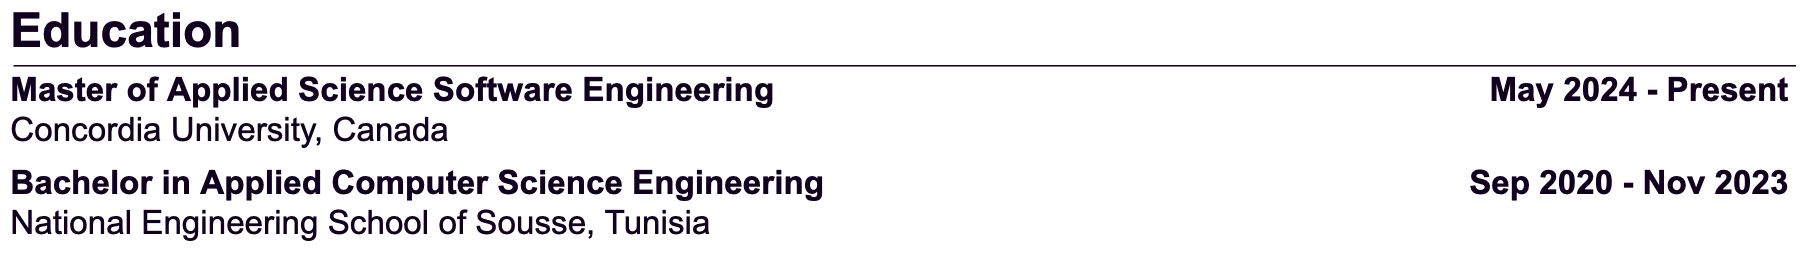
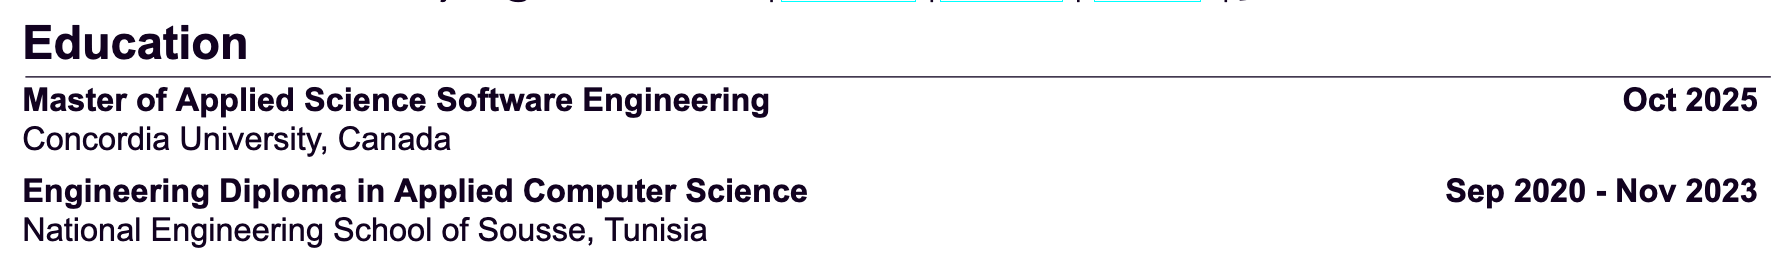
Reinitializing repository

diff --git a/achievements.html b/achievements.html
@@ -1,0 +1,116 @@
+<!DOCTYPE HTML>
+<html>
+	<head>
+		<title>Projects and Certificates</title>
+		<meta charset="utf-8" />
+		<meta name="viewport" content="width=device-width, initial-scale=1, user-scalable=no" />
+		<link rel="stylesheet" href="assets/css/main.css" />
+	</head>
+
+
+	<body class="is-preload">
+		<!-- Wrapper -->
+			<div id="wrapper">
+
+				<!-- Main -->
+					<div id="main">
+						<div class="inner">
+
+							<!-- Header -->
+								<header id="header">
+									<ul class="icons">
+										<li><a href="https://www.linkedin.com/in/chaima-jaziri/" class="icon brands fab fa-linkedin" ><span class="label">linkedIn</span></a></li>
+										<li><a href="https://github.com/Chaima-Ja" class="icon brands fab fa-github" target="_blank" rel="noopener noreferrer"><span class="label">Github</span></a></li>
+										<li><a href="mailto:chaimajaziri18@email.com" class="icon regular far fa-envelope" target="_blank" rel="noopener noreferrer"><span class="label">Email</span></a></li>
+										<li><a href="https://leetcode.com/chaima_jaziri/" class="icon solid fas fa-puzzle-piece" target="_blank" rel="noopener noreferrer"><span class="label">leetcode</span></a></li>
+									</ul>
+								</header>
+
+
+
+							<!-- Section -->
+								<!-- Section -->
+								<section>
+									<header class="major">
+										<h2>Achievements</h2>
+									</header>
+									<div class="posts">
+										<article>
+											<a href="#" class="image"><img src="images/pic01.jpg" alt="" /></a>
+											<h3>Deep Learning Indaba 2022</h3>
+											<p> I was selected to participate in the Deep Learning Indaba 2022 event awarded an accommodation grant. It is the annual meeting of the African ML community  where I immersed myself in workshops, conferences, and talks by industry giants like Apple, and Google DeepMind.. </p>
+											<p>This experience not only enhanced my skills but also broadened my perspective, fueling my desire to delve deeper into the fascinating world of artificial intelligence.</p>
+										</article>
+										<article>
+											<a href="#" class="image"><img src="images/pic02.jpg" alt="" /></a>
+											<h3>Mitacs Globalink Research Award 2023</h3>
+											<p>I recently secured a full founded scholarship from the MITACS Globalink program, paving the way for a research internship at the University of Sherbrooke in 2023.</p>
+											<p>It's a competitive initiative for international top-ranked applicants participate in a 12-week research internship in a variety of academic disciplines, from science, engineering, and mathematics.</p>
+										</article>
+								
+									</div>
+								</section>
+
+
+                            
+							
+
+
+
+						</div>
+					</div>
+
+
+				<!-- Sidebar -->
+                <div id="sidebar">
+                    <div class="inner">
+
+                        <!-- Menu -->
+                            <nav id="menu">
+                                <header class="major">
+                                    <h2>Menu</h2>
+                                </header>
+                                <ul>
+                                    <li><a href="index.html">Homepage</a></li>
+                                    <li><a href="About.html">About</a></li>
+                                    <li><a href="services.html">Services</a></li>
+                                    <li><a href="achievements.html">Achievements</a></li>
+
+                                    <li><a href="projects.html">Projects</a></li>
+                                    <li><a href="contact.html">Contact</a></li>
+                                </ul>
+                            </nav>
+
+                    
+					<!-- Section -->
+					<section>
+						<header class="major">
+							<h2>Get in touch</h2>
+						</header>
+						<p>Thank you for exploring my portfolio! I'm passionate about creating meaningful and impactful work, and I would love to collaborate with you on your next project.</p>  
+						<p>Whether you're looking for creative solutions, or just want to connect and chat about the exciting possibilities ahead, I invite you to get in touch.</p> 
+						<p>Feel free to reach out via the contact form below, and let's start a conversation that leads to something amazing. I look forward to hearing from you!</p>
+						
+						<ul class="contact">
+							<li class="icon solid fa-envelope"><a href="#">Chaima.Jaziri@mail.concordia.ca</a></li>
+							<li class="icon solid fa-home">Montreal, Canada</li>
+						</ul>
+					</section>
+                            
+
+                      
+
+                    </div>
+                </div>
+
+        </div>
+
+		<!-- Scripts -->
+			<script src="assets/js/jquery.min.js"></script>
+			<script src="assets/js/browser.min.js"></script>
+			<script src="assets/js/breakpoints.min.js"></script>
+			<script src="assets/js/util.js"></script>
+			<script src="assets/js/main.js"></script>
+
+	</body>
+</html>

diff --git a/index.html b/index.html
@@ -30,11 +30,19 @@
 										<header>
 											<h1>Hi, My name is Chaima Jaziri<br />
 											</h1>
-											<p><b>A Software Engineer & Machine Learning practitioner </b> </p>
+											<p><b>A Machine Learning Engineer </b> </p>
 										</header>
-										<p>I'm a dynamic junior computer science engineer graduated from the National School of Engineers of Sousse in Tunisia and Curently a first-year M.Sc at Concordia University. </p>
-										<p>My journey has been marked by hands-on diverse Machine Learning algorithms, resulting in valuable contributions to a range of projects. I've been expanding my knowledge through self-directed learning, and undertaking both academic and personal projects.</p>
-										<p>I'm skilled in AI, Machine learning, NLP, problem-solving, and programming and I am currently on the lookout for opportunities to apply and further refine my skills</p>
+										<p>I am a forward-thinking AI engineer with a solid academic foundation from the National School of Engineers of Sousse in Tunisia and currently pursuing an M.Sc. in Software Engineering at Concordia University</p> 
+										<p>
+
+											My expertise lies in artificial intelligence, Large language Models (LLMs) and Software Engineering. I’ve honed my skills through hands-on experience in diverse machine learning projects, tackling complex challenges and delivering impactful solutions.
+										</p>
+										<p> A lifelong learner, I am constantly working on agentic solutions and LLMs technologies and advancing my knowledge through academic research, personal initiatives, and collaborative projects.
+											
+											I am driven by a passion for creating intelligent systems that solve real-world problems and transform industries. 
+											
+										</p>
+										I am always seeking opportunities to channel my technical expertise and innovative mindset into meaningful projects that push the boundaries of AI and software engineering.</p>
 										<ul class="actions">
 											<li><a href="contact.html" class="button big">Contact Me</a></li>
 										</ul>
@@ -45,27 +53,7 @@
 								</section>
 
 
-							<!-- Section -->
-								<section>
-									<header class="major">
-										<h2>Achievements</h2>
-									</header>
-									<div class="posts">
-										<article>
-											<a href="#" class="image"><img src="images/pic01.jpg" alt="" /></a>
-											<h3>Deep Learning Indaba 2022</h3>
-											<p> I was selected to participate in the Deep Learning Indaba 2022 event awarded an accommodation grant. It is the annual meeting of the African ML community  where I immersed myself in workshops, conferences, and talks by industry giants like Apple, and Google DeepMind.. </p>
-											<p>This experience not only enhanced my skills but also broadened my perspective, fueling my desire to delve deeper into the fascinating world of artificial intelligence.</p>
-										</article>
-										<article>
-											<a href="#" class="image"><img src="images/pic02.jpg" alt="" /></a>
-											<h3>Mitacs Globalink Research Award 2023</h3>
-											<p>I recently secured a full founded scholarship from the MITACS Globalink program, paving the way for a research internship at the University of Sherbrooke in 2023.</p>
-											<p>It's a competitive initiative for international top-ranked applicants participate in a 12-week research internship in a variety of academic disciplines, from science, engineering, and mathematics.</p>
-										</article>
-								
-									</div>
-								</section>
+							
 
 						</div>
 					</div>
@@ -83,6 +71,7 @@
 										<li><a href="index.html">Homepage</a></li>
 										<li><a href="About.html">About</a></li>
 										<li><a href="services.html">Services</a></li>
+										<li><a href="Achievements.html">Achievements</a></li>
 										<li><a href="projects.html">Projects</a></li>
 										<li><a href="contact.html">Contact</a></li>
 									</ul>
@@ -101,8 +90,8 @@
 									<p>Feel free to reach out via the contact form below, and let's start a conversation that leads to something amazing. I look forward to hearing from you!</p>
 								
 									<ul class="contact">
-										<li class="icon solid fa-envelope"><a href="#">Chaima.Jaziri@USherbrooke.ca</a></li>
-										<li class="icon solid fa-home">Tunisia</li>
+										<li class="icon solid fa-envelope"><a href="#">Chaima.Jaziri@mail.concordia.ca</a></li>
+							<li class="icon solid fa-home">Montreal, Canada</li>
 									</ul>
 								</section>
 

diff --git a/About.html b/About.html
@@ -30,13 +30,23 @@
 										<h1>About Me</h1>
 									</header>
 									
-									<p><b>With three years of hands-on experience, I bring a wealth of expertise in machine learning, data extraction, data visualization, and Natural Language Processing. My journey in these fields has equipped me with a deep understanding and proficiency that extends beyond the basics. What sets me apart is not only my technical prowess but also my unwavering passion for sharing knowledge. I am committed to fostering a collaborative learning environment, where insights and ideas flow freely.</b></p>
-									<hr class="major" />
+									<p><b>I am Chaima Jaziri, an MLOps Engineer with a strong foundation in machine learning, natural language processing, and scalable software engineering. With over three years of experience, I specialize in designing robust AI solutions, building efficient pipelines, and deploying scalable models on cloud platforms.
+										
+										I am passionate about leveraging AI to drive innovation, improve processes, and solve real-world problems. Currently, I am pursuing a Thesis master of Applied Science in Software Engineering at Concordia University, focusing on agentic solutions for Software engineering problems and challenges.
+
+										<hr class="major" />
 
 									<h2>My education</h2>
-								<span class="image main"><img src="images/Education.png" alt="" /></span>
+								<span class="image main"><img src="images/education.png" alt="" /></span>
 								<h2>My experience</h2>
-								<span class="image main"><img src="images/experience.png" alt="" /></span>
+								<span class="image main"><img src="images/work.png" alt="" /></span>
+
+								<h2>My Projects</h2>
+								<span class="image main"><img src="images/projects.png" alt="" /></span>
+
+
+								<h2>My Technical Skills</h2>
+								<span class="image main"><img src="images/skills.png" alt="" /></span>
 
 								<h2>EXTRA-CURRICULAR ACTIVITIES</h2>
 								<span class="image main"><img src="images/Extra.png" alt="" /></span>
@@ -65,6 +75,7 @@
 									<li><a href="index.html">Homepage</a></li>
 									<li><a href="About.html">About</a></li>
 									<li><a href="services.html">Services</a></li>
+									<li><a href="Achievements.html">Achievements</a></li>
 									<li><a href="projects.html">Projects</a></li>
 									<li><a href="contact.html">Contact</a></li>
 								</ul>
@@ -83,9 +94,9 @@
 								<p>Feel free to reach out via the contact form below, and let's start a conversation that leads to something amazing. I look forward to hearing from you!</p>
 								
 								<ul class="contact">
-									<li class="icon solid fa-envelope"><a href="#">Chaima.Jaziri@USherbrooke.ca</a></li>
+									<li class="icon solid fa-envelope"><a href="#">Chaima.Jaziri@mail.concordia.ca</a></li>
 			
-									<li class="icon solid fa-home">Tunisia</li>
+									<li class="icon solid fa-home">Montreal, Canada</li>
 								</ul>
 							</section>
 

diff --git a/projects.html b/projects.html
@@ -1,7 +1,7 @@
 <!DOCTYPE HTML>
 <html>
 	<head>
-		<title>Projects</title>
+		<title>Projects and Certificates</title>
 		<meta charset="utf-8" />
 		<meta name="viewport" content="width=device-width, initial-scale=1, user-scalable=no" />
 		<link rel="stylesheet" href="assets/css/main.css" />
@@ -31,7 +31,7 @@
 							<!-- Section -->
 								<section>
 									<header class="major">
-										<h2>Projects</h2>
+										<h2>Projects  </h2>
 									</header>
 									<div class="features">
 										<article>
@@ -163,6 +163,7 @@ to return highly relevant document snippets rather than generic keyword matches.
                                     <li><a href="index.html">Homepage</a></li>
                                     <li><a href="About.html">About</a></li>
                                     <li><a href="services.html">Services</a></li>
+                                    <li><a href="Achievements.html">Achievements</a></li>
                                     <li><a href="projects.html">Projects</a></li>
                                     <li><a href="contact.html">Contact</a></li>
                                 </ul>
@@ -181,8 +182,8 @@ to return highly relevant document snippets rather than generic keyword matches.
 								<p>Feel free to reach out via the contact form below, and let's start a conversation that leads to something amazing. I look forward to hearing from you!</p>
 								
                                 <ul class="contact">
-                                    <li class="icon solid fa-envelope"><a href="#">Chaima.Jaziri@USherbrooke.ca</a></li>
-                                    <li class="icon solid fa-home">Tunisia</li>
+                                    <li class="icon solid fa-envelope"><a href="#">Chaima.Jaziri@mail.concordia.ca</a></li>
+							<li class="icon solid fa-home">Montreal, Canada</li>
                                 </ul>
                             </section>
 

diff --git a/services.html b/services.html
@@ -94,6 +94,7 @@
                                     <li><a href="index.html">Homepage</a></li>
                                     <li><a href="About.html">About</a></li>
                                     <li><a href="services.html">Services</a></li>
+									<li><a href="Achievements.html">Achievements</a></li>
                                     <li><a href="projects.html">Projects</a></li>
                                     <li><a href="contact.html">Contact</a></li>
                                 </ul>
@@ -111,8 +112,8 @@
 								<p>Feel free to reach out via the contact form below, and let's start a conversation that leads to something amazing. I look forward to hearing from you!</p>
 								
                                 <ul class="contact">
-                                    <li class="icon solid fa-envelope"><a href="#">Chaima.Jaziri@USherbrooke.ca</a></li>
-                                    <li class="icon solid fa-home">Tunisia</li>
+                                    <li class="icon solid fa-envelope"><a href="#">Chaima.Jaziri@mail.concordia.ca</a></li>
+							<li class="icon solid fa-home">Montreal, Canada</li>
                                 </ul>
                             </section>
 

diff --git a/contact.html b/contact.html
@@ -82,7 +82,7 @@
                 
                     <section>
                 <p><b>You can also use the form below to send me an e-mail directly.</b></p>
-                        <form action="mailto:Chaima.Jaziri@USherbrooke.ca" method="post" enctype="text/plain">
+                        <form action="mailto:chaima.jaziri@mail.concordia.ca" method="post" enctype="text/plain">
                             <label for="Name">Name :</label>
                             <input type="text" id="Name" name="Name" required>
                 
@@ -116,6 +116,7 @@
                                     <li><a href="index.html">Homepage</a></li>
                                     <li><a href="About.html">About</a></li>
                                     <li><a href="services.html">Services</a></li>
+									<li><a href="Achievements.html">Achievements</a></li>
                                     <li><a href="projects.html">Projects</a></li>
                                     <li><a href="contact.html">Contact</a></li>
                                 </ul>
